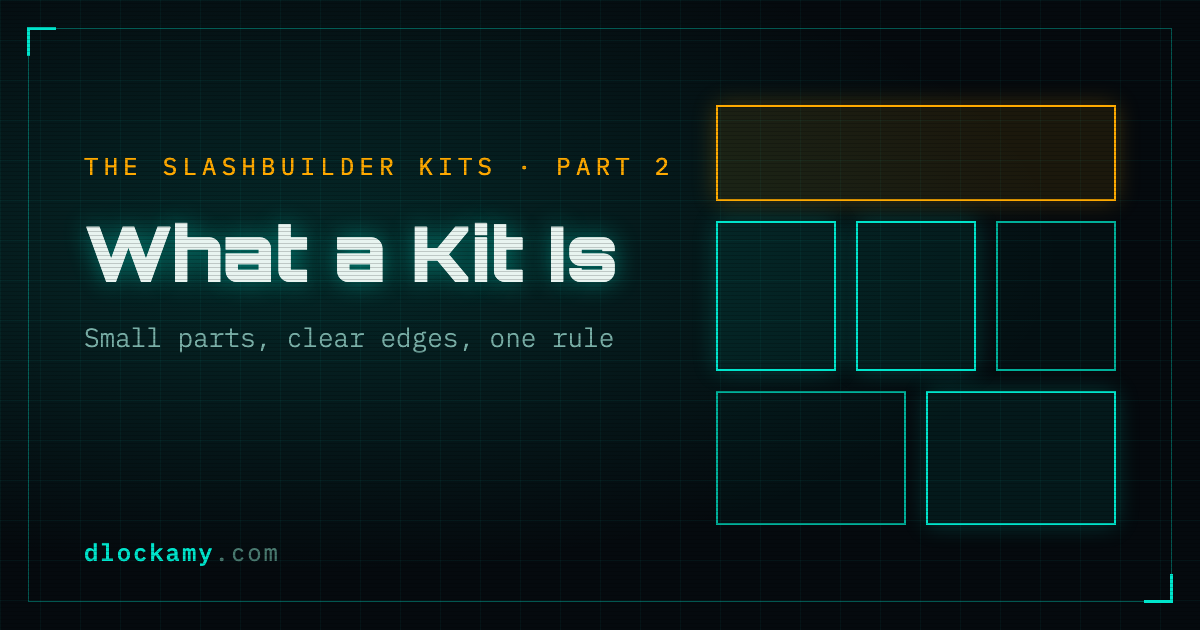
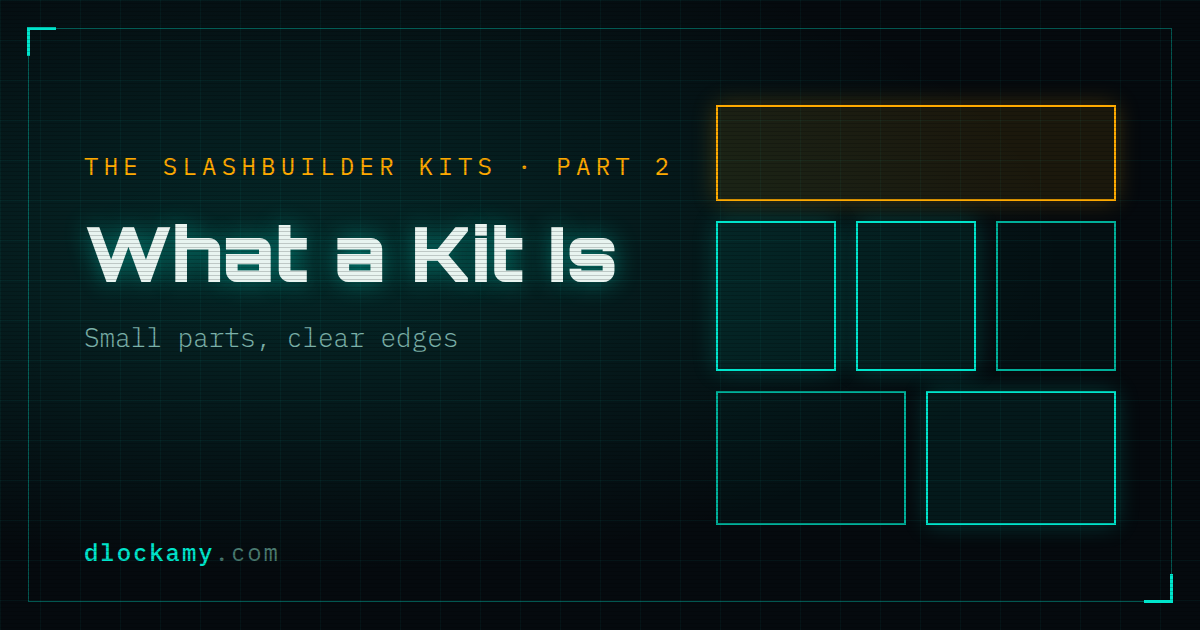
draft: Part 2 safety edits, short excerpt, card tagline (still unpublished)
- Remove "a Kit's planner": it pointed at a private Kit's role. Now "a Kit".
- Recast the documentation-disagreed-about-the-number-of-Kits sentence in
  the past tense, with no numbers. DJ to confirm: this is his experience.
- Shorten the excerpt to 101 characters so og:description and the meta
  description are not truncated (layout truncates at 200 and 160).
- Re-render the 1200x630 title card from the Mission Console template with
  the tagline "Small parts, clear edges" (the post states five rules, so
  "one rule" contradicted it).

published: false, date 2026-10-26 and ai_assisted: true are unchanged.
Overnight 2026-10-20, units B2-1, B2-4, B2-5.

diff --git a/_posts/2026-10-26-what-a-kit-is.md b/_posts/2026-10-26-what-a-kit-is.md
@@ -5,7 +5,7 @@ date: 2026-10-26
 published: false # DRAFT: remove this line when ready to publish
 categories: [slashbuilder, ai]
 tags: [slashbuilder, kits, beos, architecture, ai-assisted-development, series]
-excerpt: "Part 2 of the series on the platform I'm building with AI. Before any status report, a plain answer to what a Kit is: a small building block named for the thing it owns, with a stable interface, a list of things it refuses to do, and a rule that products compose Kits and never fork them."
+excerpt: "Part 2: what I mean by a Kit, the rules every one follows, and why that shape suits building with AI."
 image: /images/what-a-kit-is.png
 author: Douglas Lockamy
 ai_assisted: true
@@ -85,13 +85,13 @@ In practice it has looked like this:
   have called finished.
 - **Applications that push back.** When an application is built on a Kit and
   hits a gap, the finding gets written down against the Kit. In one case an
-  application found real problems in a Kit's planner on its first day of use,
-  and they were fixed the same day.
+  application found real problems in a Kit on its first day of use, and they
+  were fixed the same day.
 
 Here's where it goes wrong, and it's a good example of the caveats I promised in
 Part 1: a Kit can be written much faster than its neighbours can be reconciled.
-I currently have documentation that disagrees with itself about how many Kits
-there are. Each page was right on the day it was written. That's a real cost of
+For a while I had documentation that disagreed with itself about how many Kits
+there were. Each page was right on the day it was written. That's a real cost of
 building quickly with AI, and I'd rather tell you about it than hide it.
 
 ## Where this is going
